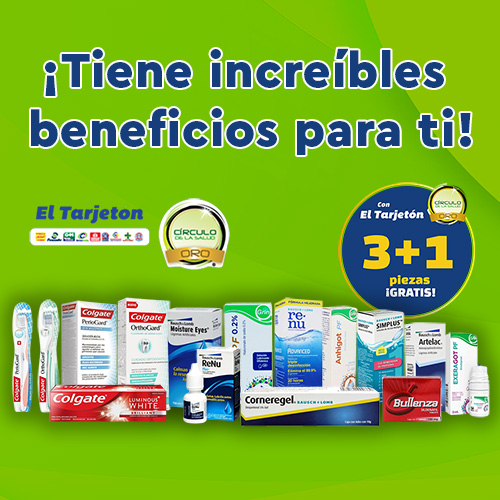
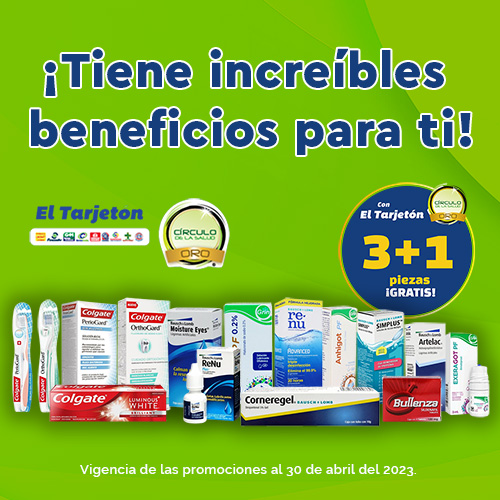
Correccion Tarjeton Dic 16

Changed region(s): [[0.15, 0.93, 0.84, 0.96]]

diff --git a/el-tarjeton/Dic-16/mail/index.html b/el-tarjeton/Dic-16/mail/index.html
@@ -355,7 +355,7 @@
                   
       <div
          style="font-family:Ubuntu, Helvetica, Arial, sans-serif;font-size:18px;line-height:1;text-align:center;color:#234270;"
-      >Vigencia de las promociones al 31 de diciembre del 2023 o hasta agotar existencias</div>
+      >Vigencia de las promociones al 30 de abril del 2023 o hasta agotar existencias</div>
     
                 </td>
               </tr>
